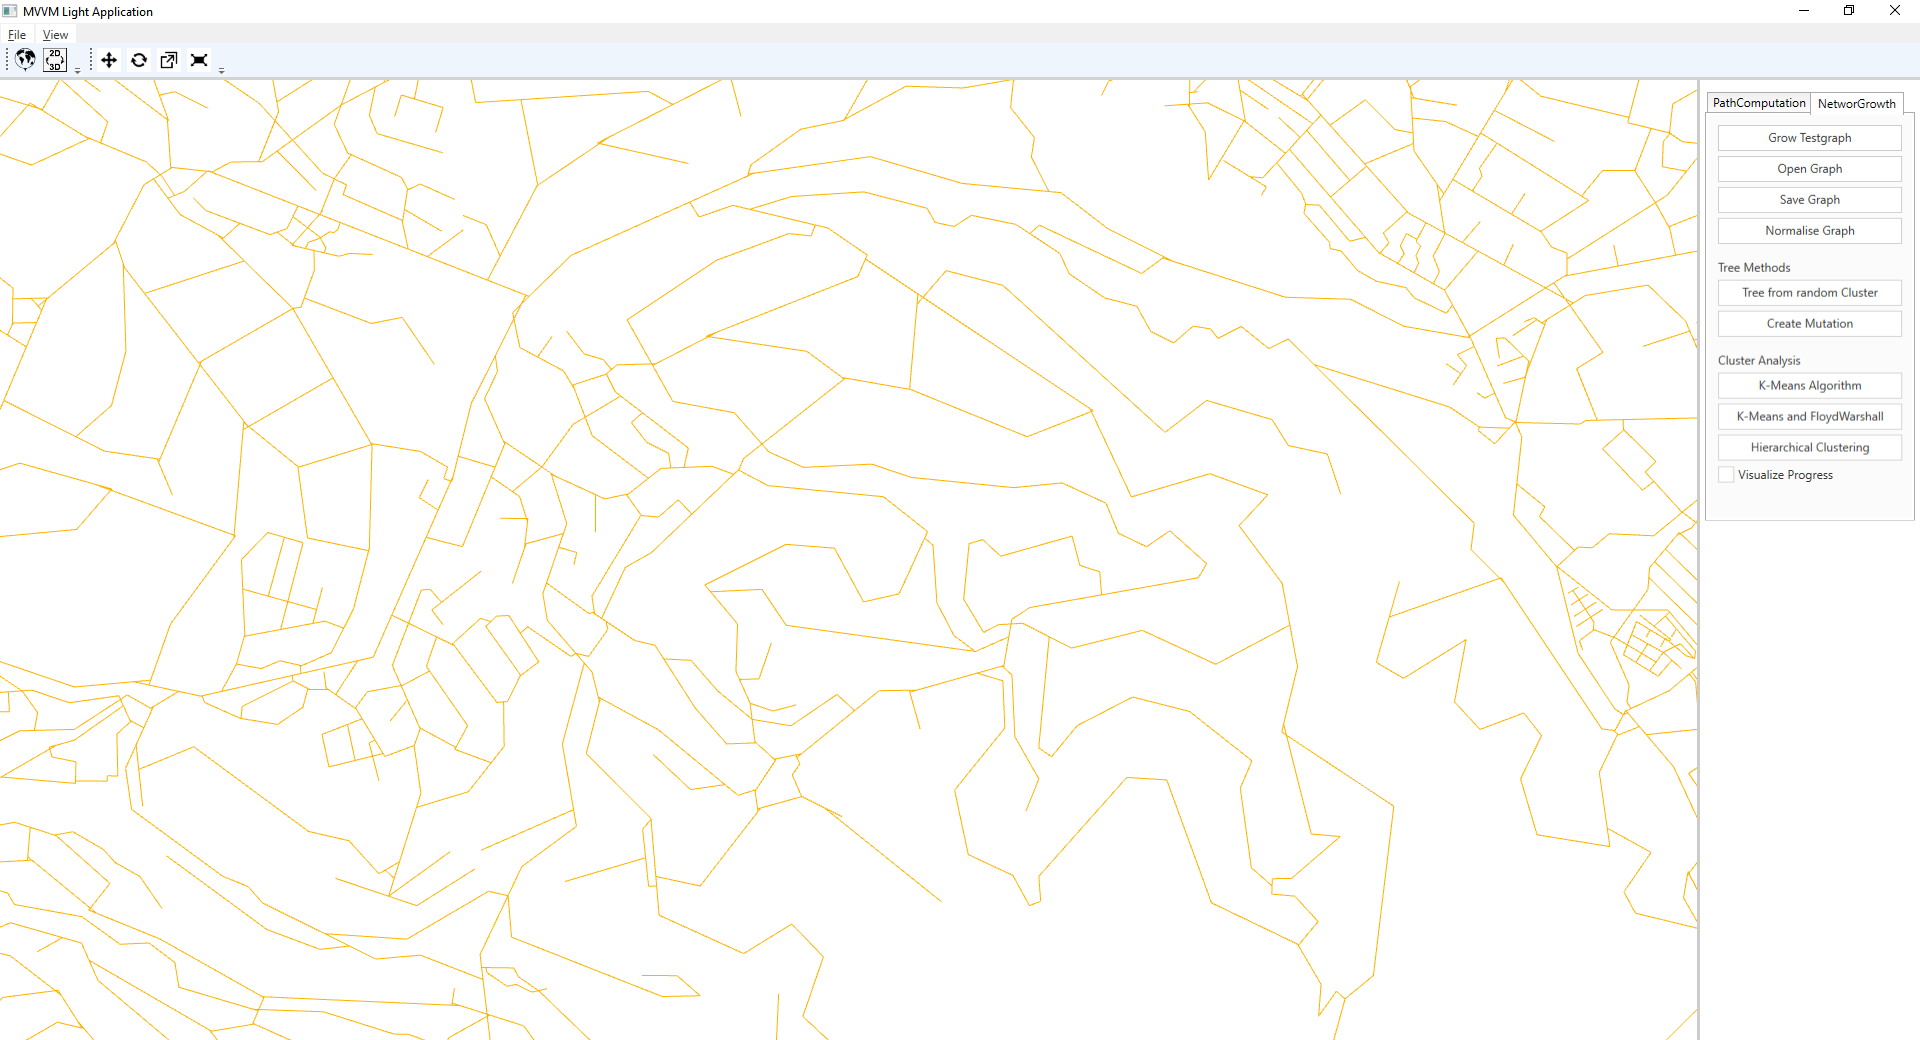
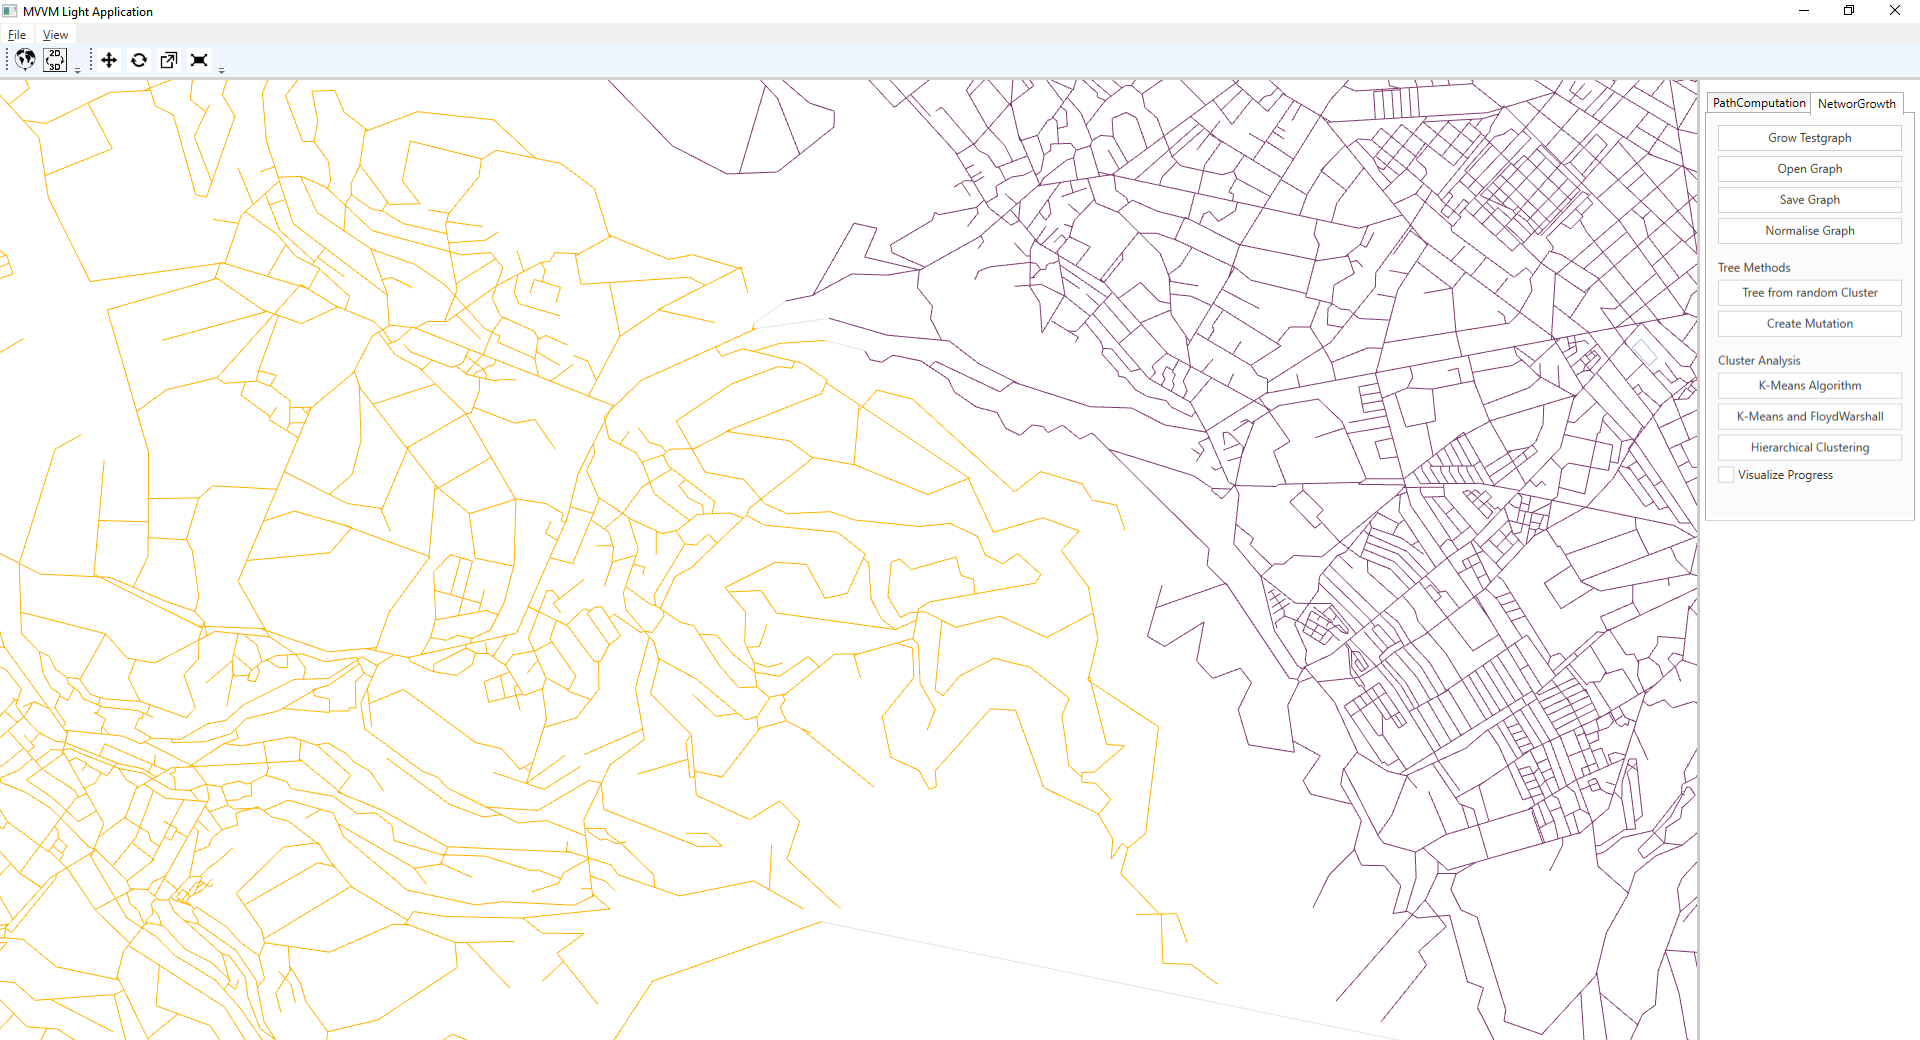
Replaced normalisation images
+ Wrote about colour generation

diff --git a/IP6 - Report Street Networks.tex b/IP6 - Report Street Networks.tex
@@ -401,7 +401,8 @@ The result of each clustering algorithm, which was implemented in this thesis, r
     \item Streets which connect vertices of two distinct clusters are coloured grey.
 \end{itemize}
 
-\cite{colors:2006}
+There are papers which discuss how colours can be transformed to a perceptually uniform space, where the computation of $n$ colours with maximal distances (for the human eye) is possible \cite{colors:2006}. In this thesis a more concise approach was taken.
+%TODO
 
 
 \subsection{Measurements}
